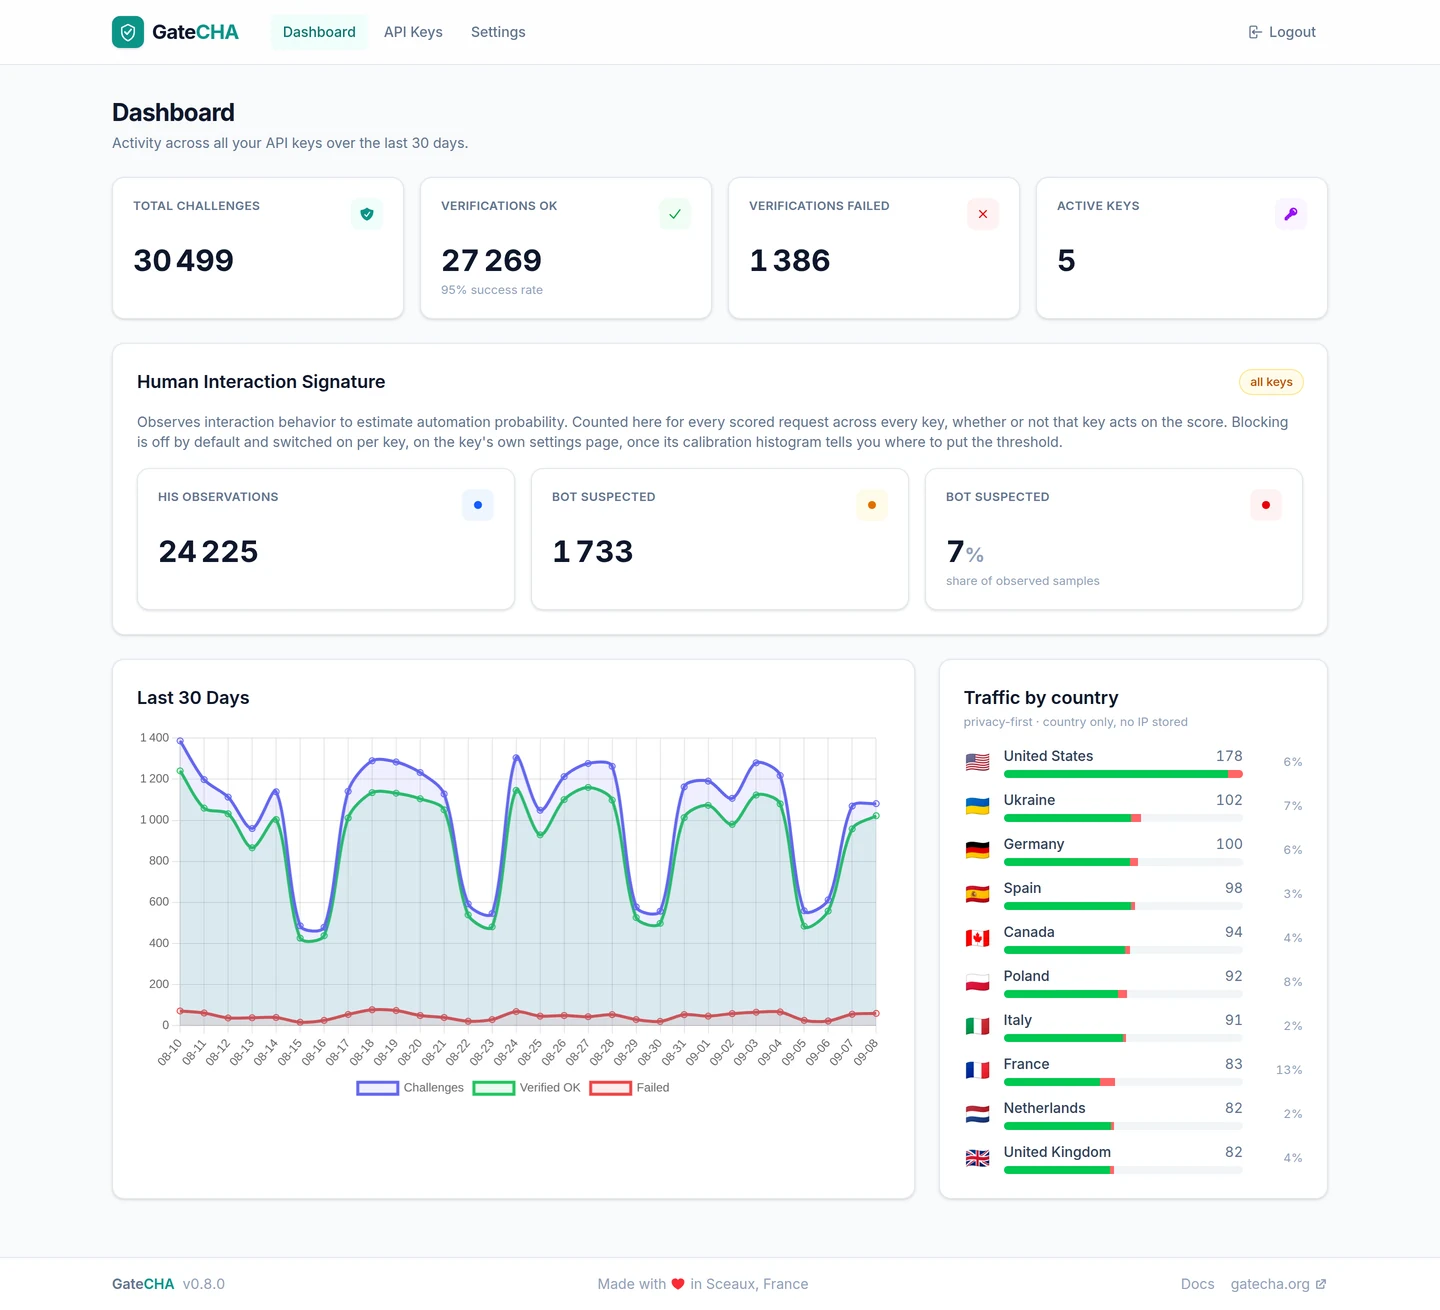
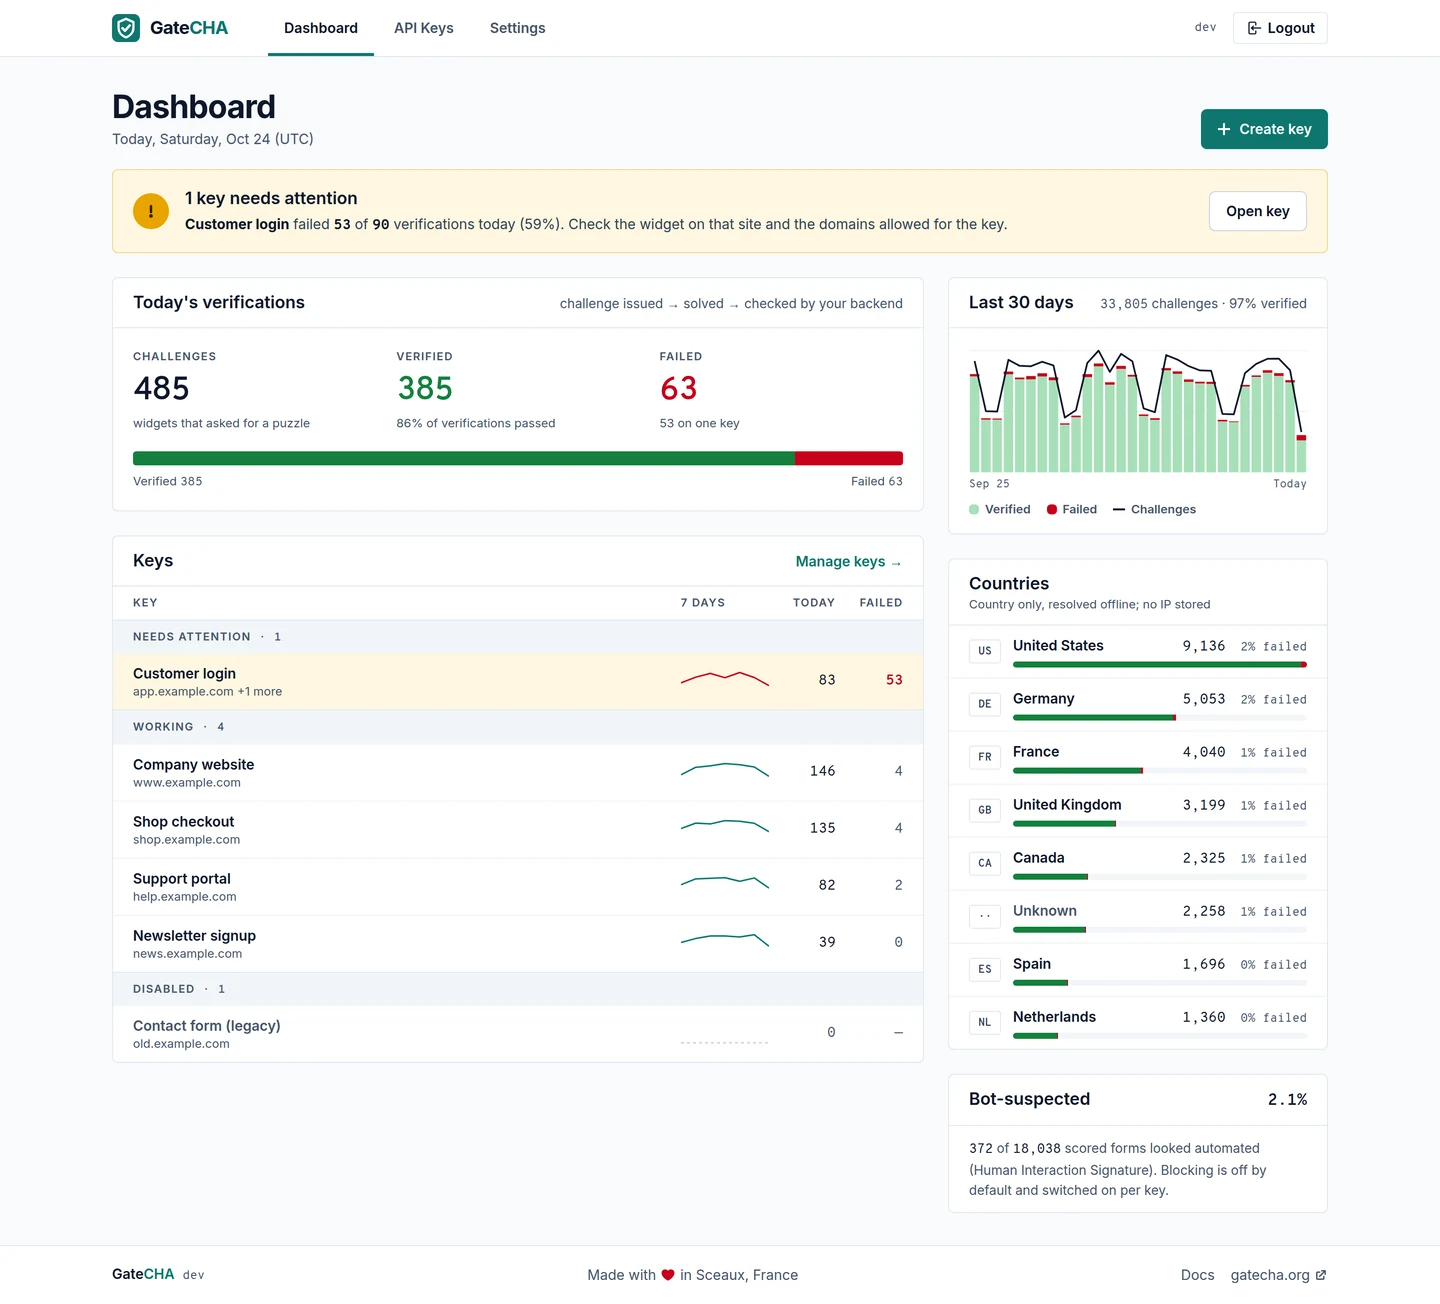
feat: show the new dashboard in the hero
The hero screenshot shows the attention-first dashboard: a banner naming
the key failing today, today's verification funnel, keys grouped by
status, the 30-day chart and countries. Taken on a demo instance with
generic example.com keys, at 2x; WebP variants regenerated with the
command noted above the <picture>.

diff --git a/index.html b/index.html
@@ -106,8 +106,8 @@
             <source type="image/webp"
                     srcset="assets/dashboard-640.webp 640w, assets/dashboard-960.webp 960w, assets/dashboard-1440.webp 1440w"
                     sizes="(min-width: 1056px) 990px, calc(100vw - 50px)">
-            <img src="assets/dashboard.png" width="1440" height="1310"
-                 alt="GateCHA dashboard showing challenge totals, the Human Interaction Signature monitor, traffic by country and a 30-day verification chart"
+            <img src="assets/dashboard.png" width="1440" height="1303"
+                 alt="GateCHA dashboard: a banner naming the one key failing today, today's challenges, verified and failed counts, keys grouped by status, a 30-day verification chart and traffic by country"
                  fetchpriority="high" decoding="async"
                  onerror="this.closest('.hero-preview-wrap').remove()">
           </picture>
